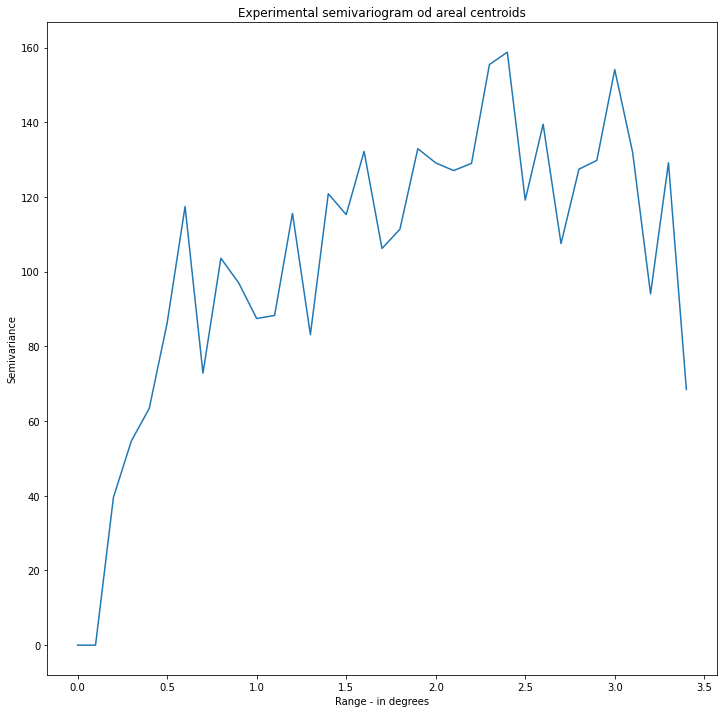
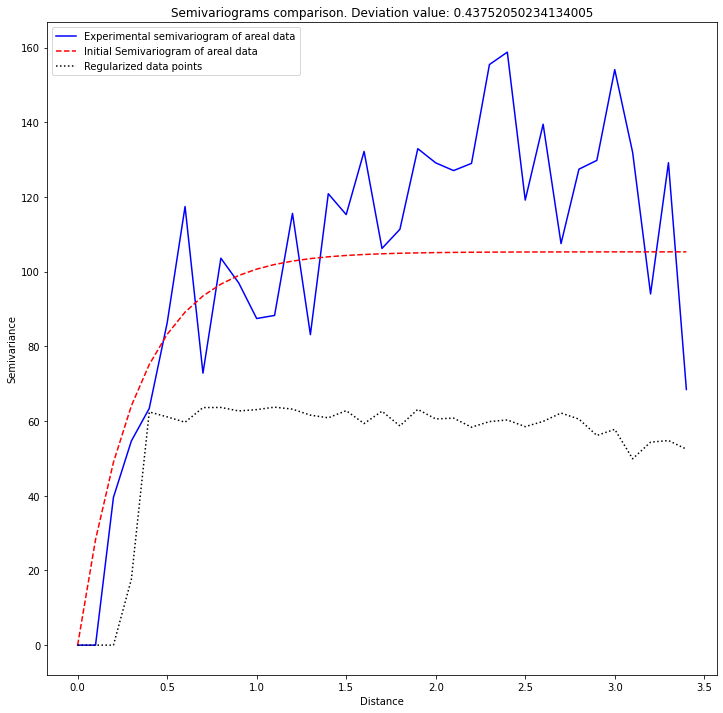
package strcuture desc

diff --git a/pyinterpolate/test/semivariance/test_calculate_average_semivariance.py b/pyinterpolate/test/semivariance/test_calculate_average_semivariance.py
@@ -41,8 +41,62 @@ class TestCalculateAverageSemivariance(unittest.TestCase):
         # Set areal semivariance class
         areal_semivariance = ArealSemivariance(areal_data_prepared, step_size, max_range, points_in_area)
         areal_semivariance.regularize_semivariogram()
+
         avg_semi = calculate_average_semivariance(areal_semivariance.distances_between_blocks,
-                                                  areal_semivariance.inblock_semivariance, areal_semivariance.areal_lags,
+                                                  areal_semivariance.inblock_semivariance,
+                                                  areal_semivariance.areal_lags,
+                                                  areal_semivariance.areal_ss)
+        data_test_vals = avg_semi.astype(np.int)
+
+        desired_output = np.array([[0, 111], [1, 111]])
+        test_vals = (data_test_vals == desired_output)
+        print(data_test_vals)
+        self.assertTrue(test_vals.all(), "Output should be [[0, 111], [1, 111]]")
+
+
+    def test_calculate_average_semivariance_id_as_str(self):
+
+        # Data prepration
+        my_dir = os.path.dirname(__file__)
+
+        areal_dataset = os.path.join(my_dir, '../sample_data/test_areas_pyinterpolate.shp')
+        subset = os.path.join(my_dir, '../sample_data/test_points_pyinterpolate.shp')
+
+        a_id = 'id'
+        areal_val = 'value'
+        points_val = 'value'
+
+        # Get maximum range and set step size
+
+        gdf = gpd.read_file(areal_dataset)
+
+        total_bounds = gdf.geometry.total_bounds
+        total_bounds_x = np.abs(total_bounds[2] - total_bounds[0])
+        total_bounds_y = np.abs(total_bounds[3] - total_bounds[1])
+
+        max_range = min(total_bounds_x, total_bounds_y)
+        step_size = max_range / 2
+
+        areal_data_prepared = prepare_areal_shapefile(areal_dataset, a_id, areal_val)
+        points_in_area = get_points_within_area(areal_dataset, subset, areal_id_col_name=a_id,
+                                                points_val_col_name=points_val)
+
+
+
+        # Set areal semivariance class
+        areal_semivariance = ArealSemivariance(areal_data_prepared, step_size, max_range, points_in_area)
+        areal_semivariance.regularize_semivariogram()
+
+        # Change ints to str in inblock semivariance for calculations
+        inblock = [[str(x[0]), x[1]] for x in areal_semivariance.inblock_semivariance]
+        inblock = np.asarray(inblock, dtype=object)
+
+        ar_dists = [areal_semivariance.distances_between_blocks[0],
+                    [str(x) for x in areal_semivariance.distances_between_blocks[1]]]
+
+        avg_semi = calculate_average_semivariance(ar_dists,
+                                                  inblock,
+                                                  areal_semivariance.areal_lags,
                                                   areal_semivariance.areal_ss)
         data_test_vals = avg_semi.astype(np.int)
 

diff --git a/paper/paper.md b/paper/paper.md
@@ -39,7 +39,6 @@ The most similar and most important package is **PyKrige** [@benjamin_murphy_202
 
 **R programming language** offers **gstat** package for spatial interpolation and spatial modeling [@PEBESMA2004683]. Package is designed for variogram modelling, simple, ordinary and universal point or block kriging (with drift), spatio-temporal kriging and sequential Gaussian (co)simulation. Gstat is a solid package for Kriging and spatial interpolation and has the largest number of methods to perform spatial modelling. The main difference between gstat and pyinterpolate is availability of area-to-point Poisson Kriging based on the algorithm proposed by Goovaerts [bibliografia] in the latter.
 
-
 # Spatial Interpolation
 
 Kriging, which is baseline of the Pyinterpolate package, is an estimation method that gives the best unbiased linear estimates of point values or block averages [@Armstrong:1998]. Kriging minimizes variance of a dataset with missing values. Baseline technique is the Ordinary Kriging where value at unknown location $\hat{z}$ is estimated as a linear combination of $K$ neighbors with value $z$ and weights $\lambda$ assigned to those neighbors (1).
@@ -70,13 +69,43 @@ where $z_{x_{i}}$ is a value at location $x_{i}$ and $z_{(x_{i} + h)}$ is a valu
 
 After estimation of experimental semivariogram theoretical models are fitted to the experimental curve and this with the lowest error is used as a model semivariance in (3). There are few basic types of semivariogram models: linear, spherical, exponential and gaussian. \autoref{fig7} shows semivariogram models fitted to the experimental curves and those are initial semivariogram of areal data (red curve) and optimized theoretical point support model (black dotted curve).
 
-Prediction steps in spatial interpolation are generally the same for point and areal datasets. User should perform semivariogram analysis, e.g: analysis of semivariance in the function of a distance. Then researcher or algorithm chooses theoretical model which best fits semivariogram. This model is used to predict values at unknown locations. Areal data interpolation, especially transformation from areal aggregates into point support maps, requires deconvolution of areal semivariogram (\autoref{fig7} shows outputs of this process). This is automatic process which can be performed without prior knowledge of kriging and spatial statistics. The last step is Kriging itself. Poisson Kriging is especially useful for counts over areas. On the other spectrum is Ordinary Kriging which is an universal technique which works well with multiple point data sources. Predicted data is stored as a _DataFrame_ known from the Pandas and GeoPandas Python packages. Pyinterpolate allows users to transform given point data into regular numpy array grid for visualization purposes and to perform large-scale comparison of different kriging techniques prediction output.
+Prediction steps in spatial interpolation are generally the same for point and areal datasets. User should perform semivariogram analysis, e.g: analysis of semivariance in the function of a distance. Then researcher or algorithm chooses theoretical model which best fits semivariogram. This model is used to predict values at unknown locations. Areal data interpolation, especially transformation from areal aggregates into point support maps, requires deconvolution of areal semivariogram (\autoref{fig5} shows outputs of this process). This is automatic process which can be performed without prior knowledge of kriging and spatial statistics. The last step is Kriging itself. Poisson Kriging is especially useful for counts over areas. On the other spectrum is Ordinary Kriging which is an universal technique which works well with multiple point data sources. Predicted data is stored as a _DataFrame_ known from the Pandas and GeoPandas Python packages. Pyinterpolate allows users to transform given point data into regular numpy array grid for visualization purposes and to perform large-scale comparison of different kriging techniques prediction output.
 
-\autoref{fig8} and \autoref{fig9} show one realization of choropleth map for epidemiological study before and after regularization and Area-to-Point Poisson Kriging transformation where we get rid of a visual bias.
+\autoref{fig6} and \autoref{fig7} show one realization of choropleth map for epidemiological study before regularization and point support population-at-risk after regularization with Area-to-Point Poisson Kriging.
 
 # Structure of package
 
+Pyinterpolate is designed from seven modules and they cover all operations needed to perform spatial interpolation: from file read, data processing and transformation, semivariogram fit to kriging interpolation. \autoref{fig1} shows package structure.
 
+![Structure of Pyinterpolate package.\label{fig1}](fig1.png)
+
+Modules follow data processing and modeling steps. The first module is **io_ops** which reads point data from text files and areal or point data from shapefiles, then changes data structure for further processing. **Transform** module is responsible for all tasks related to changes in data structure during program execution. Sample tasks are:
+
+- finding centroids of areal data,
+- building masks of points within lag.
+
+Functions for distance calculation between points and between areas (blocks) are grouped within **distance** module. **Semivariance** is most complex part of Pyinterpolate package. It has three special classes:
+
+-	```TheoreticalSemivariogram```: class for theoretical semivariance model calculations and storage,
+-	```ArealSemivariance```: class for areal semivariance models calculations and storage,
+-	```RegularizedSemivariogram```: class which performs semivariogram regularization and stores regularized semivariogram.
+
+**Semivariance** module has other functions important for spatial analysis: 
+
+- function for experimental semivariance / covariance calculation, 
+- weighted semivariance estimation,
+- variogram cloud preparation, 
+- outliers removal.
+
+**Kriging** module contains three main types of models:
+
+-	```ArealKriging```: for *area-to-area* and *area-to-point* Poisson Kriging,
+-	```CentroidPoissonKriging```: for Poisson Kriging of areal centroids,
+-	```Krige```: for ordinary and simple kriging of points.
+
+```ArealKriging``` and ```CentroidPoissonKriging``` models are derived from [@biblio], simple Kriging and ordinary Kriging models are based on [@ biblio].
+
+Package has two special functions in **viz** and **misc** module. **Viz** module has ```interpolate_raster()``` function for creation of rasterized numpy array of evenly spaced points (visualization purpose). **Misc** module offers special function for automatic comparison of multiple Kriging models on the same dataset (area-to-area Poisson Kriging, Centroid-based Poisson Kriging, Ordinary Kriging, Simple Kriging). Evaluation metric of this method is an average root mean squared error over multiple random divisions of passed dataset.
 
 # Example use case: Breast Cancer Rate in Pennsylvania State
 
@@ -84,15 +113,14 @@ Package logic follows typical pipeline:
 
 1. Read and prepare data.
 2. Analyze and test semivariance of points or areas.
-3. Create theoretical semivariogram or regularize one.
-4. Build Kriging model.
-5. Predict.
+3. Create theoretical semivariogram or regularize areal aggregated values.
+4. Build Kriging model and export output.
 
-We go through it point by point to demonstrate package capabilities. Breast cancer rates are taken from Incidence Rate Report for Pennsylvania by County [@cancerData]. These are rates of all stages of a breast cancer in all races and all ages, mean for 2013-2017, Age-adjusted rates multiplied by 100,000. These rates are merged with Pennsylvania counties shapefile downloaded from the Pennsylvania Spatial Data Access portal [@pennSpatial]. Population centroids are retrived from the Centers of Population for the 2010 Census Blocks  [@popCensus]. Breast cancer affects only females but for this example we include whole population for an area. Raw and transformed datasets are available in dedicated Github repository [@paperRepo].
+We go through it point by point to demonstrate package capabilities. Breast cancer rates are taken from Incidence Rate Report for Pennsylvania by County [@cancerData]. These are rates of all stages of a breast cancer in all races and all ages, mean for 2013-2017, Age-adjusted rates multiplied by 100,000. These rates are merged with Pennsylvania counties shapefile downloaded from the Pennsylvania Spatial Data Access portal [@pennSpatial]. Population centroids are retrived from the Centers of Population for the 2010 Census Blocks [@popCensus]. Breast cancer affects only females but for this example we include whole population for an area. Raw and transformed datasets are available in dedicated Github repository [@paperRepo].
 
-Our work is to perform Area-to-Point Poisson Kriging on this dataset and transform areal aggregates into population-specific blocks (points). This process requires two main steps: **semivariogram regularization** and **Poisson Kriging**. Those two steps are divided into five smaller steps.
+Our work is to perform Area-to-Point Poisson Kriging on this dataset and transform areal aggregates into population-specific blocks (points). This process requires two main steps: **semivariogram regularization** and **Poisson Kriging**.
 
-1. Read and prepare data.
+## 1. Read and prepare data
 
 ```python
 import numpy as np
@@ -145,9 +173,9 @@ array(
 dtype=object)
 ```
 
-2. Analyze and test semivariance of points or areas.
+## 2. Analyze and test semivariance of points or areas
 
-Before Kriging we must create semivariogram model of our data. In the case of areal data we must check semivariance of areal centroids \autoref{fig4} and we should check semivariance of point support \autoref{fig5} to be sure that process is spatially correlated at every level.
+Before Kriging we must create semivariogram model of our data. In the case of areal data we must check semivariance of areal centroids \autoref{fig2} and we should check semivariance of point support \autoref{fig3} to be sure that process is spatially correlated at every level.
 
 ```python
 maximum_range = 3.5
@@ -166,7 +194,7 @@ plt.ylabel('Semivariance')
 plt.show()
 ```
 
-![Experimental semivariogram of areal centroids.\label{fig4}](fig4.png)
+![Experimental semivariogram of areal centroids.\label{fig2}](fig2.png)
 
 ```python
 def build_point_array(points):
@@ -197,13 +225,13 @@ plt.ylabel('Semivariance')
 plt.show()
 ```
 
-![Experimental semivariogram of point support.\label{fig5}](fig5.png)
+![Experimental semivariogram of point support.\label{fig3}](fig3.png)
 
 Both semivariograms shows spatial correlation in a dataset and both may be modeled with theoretical functions. We can go to the next step.
 
-3. Create theoretical semivariogram or regularize one.
+## 3. Create theoretical semivariogram or regularize areal aggregated values
 
-Semivariogram modeling is fully automated and best model is selected based on the lowest error between chosen model type (*spherical*, *linear*, *gaussian* or *exponential*) and experimental semivariogram. More complex is deconvolution of areal semivariogram described in [@Goovaerts:2007] which is performed in this example. Semivariogram deconvolution is a two-step process. In a first step of regularization all types of semivariograms are prepared for processing. In second step areal semivariogram is regularized in an interatve procedure, which is a time consuming process, which directly depends on the number of points of the support. Whole process could be enclosed in one procedure but due to the time required for procedure it is better to separate initial prepration and iterative regularization steps. We can check experimental semivariogram and theoretical model of areal data along with first output of regularization to be sure that our process can be modeled with spatial correlation analysis. \autoref{fig6} presents initial (baseline) semivariograms and \autoref{fig7} shows those after regularization. After procedure we are able to export model for the Kriging procedure.
+Semivariogram modeling is fully automated and best model is selected based on the lowest error between chosen model type (*spherical*, *linear*, *gaussian* or *exponential*) and experimental semivariogram. More complex is deconvolution of areal semivariogram described in [@Goovaerts:2007] which is performed in this example. Semivariogram deconvolution is a two-step process. In a first step of regularization all types of semivariograms are prepared for processing. In second step areal semivariogram is regularized in an interatve procedure, which is a time consuming process, which directly depends on the number of points of the support. Whole process could be enclosed in one procedure but due to the time required for procedure it is better to separate initial prepration and iterative regularization steps. We can check experimental semivariogram and theoretical model of areal data along with first output of regularization to be sure that our process can be modeled with spatial correlation analysis. \autoref{fig4} presents initial (baseline) semivariograms and \autoref{fig5} shows those after regularization. After procedure we are able to export model for the Kriging procedure.
 
 ```python
 reg_mod = RegularizedSemivariogram()
@@ -231,24 +259,24 @@ plt.ylabel('Semivariance')
 plt.show()
 ```
 
-![Semivariograms after fit procedure.\label{fig6}](fig6.png)
+![Semivariograms after fit procedure.\label{fig4}](fig4.png)
 
 ```python
 reg_mod.transform(max_iters=15)
 reg_mod.show_semivariograms()
 ```
 
-![Semivariograms after regularization.\label{fig7}](fig7.png)
+![Semivariograms after regularization.\label{fig5}](fig5.png)
 
 ```python
 reg_mod.export_regularized_model('regularized_model.csv')
 ```
 
-4. Build Kriging model.
+## 4. Build Kriging model and export output
 
-With theoretical semivariogram we are able to model data with Kriging. In this example we create Poisson Kriging model to estimate population at risk at level of population centroids [@popCensus]. Map of Breast Cancer rates and population centroids shows that there are clusters of points but we leave them without declustering and perform analysis on this dataset \autoref{fig8}.
+With theoretical semivariogram we are able to model data with Kriging. In this example we create Poisson Kriging model to estimate population at risk at level of population centroids [@popCensus]. Map of Breast Cancer rates and population centroids shows that there are clusters of points but we leave them without declustering and perform analysis on this dataset \autoref{fig6}.
 
-![Breast cancer incidence rates in Pennsylvania state with population at risk points.\label{fig8}](fig8.png)
+![Breast cancer incidence rates in Pennsylvania state with population at risk points.\label{fig6}](fig6.png)
 
 Area to point Poisson Kriging requires us to know semivariogram model and to assign number of closest neighbors and max radius of neighbors search.
 
@@ -273,7 +301,7 @@ smoothed_area = kriging_model.regularize_data(number_of_neighbours=number_of_obs
                                              data_crs=gdf_crs)
 ```
 
-Whole process may take a while, especially if we have many support points. Method ```regularize_data()``` returns *GeoDataFrame* object with ```[id, geometry, estimated value, estimated prediction error, rmse]``` columns. We may plot output with *matplotlib* and check **population at risk** map \autoref{fig9}. Finally, point support map may be saved as a shapefile.
+Whole process may take a while, especially if we have many support points. Method ```regularize_data()``` returns *GeoDataFrame* object with ```[id, geometry, estimated value, estimated prediction error, rmse]``` columns. We may plot output with *matplotlib* and check **population at risk** map \autoref{fig7}. Finally, point support map may be saved as a shapefile.
 
 ```python
 smoothed_area.plot(column='estimated value', cmap='Spectral_r', legend=True, figsize=fs)
@@ -281,7 +309,8 @@ smoothed_area.plot(column='estimated value', cmap='Spectral_r', legend=True, fig
 smoothed_area.to_file('smoothed_output.shp')
 ```
 
-![Breast cancer population at risk map in Pennsylvania state.\label{fig9}](fig9.png)
+![Breast cancer population at risk map in Pennsylvania state.\label{fig7}](fig7.png)
+
 
 
 # References
